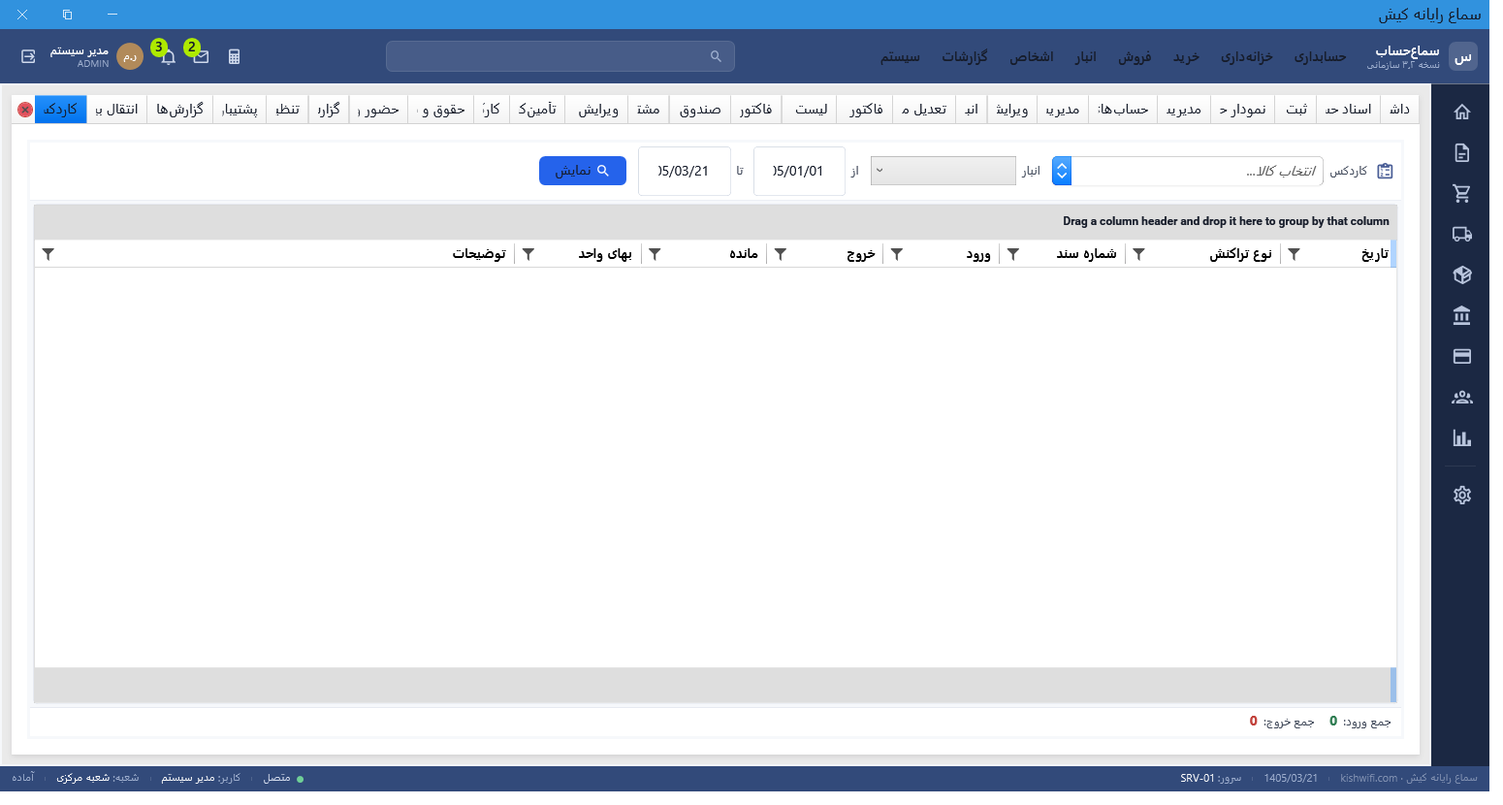
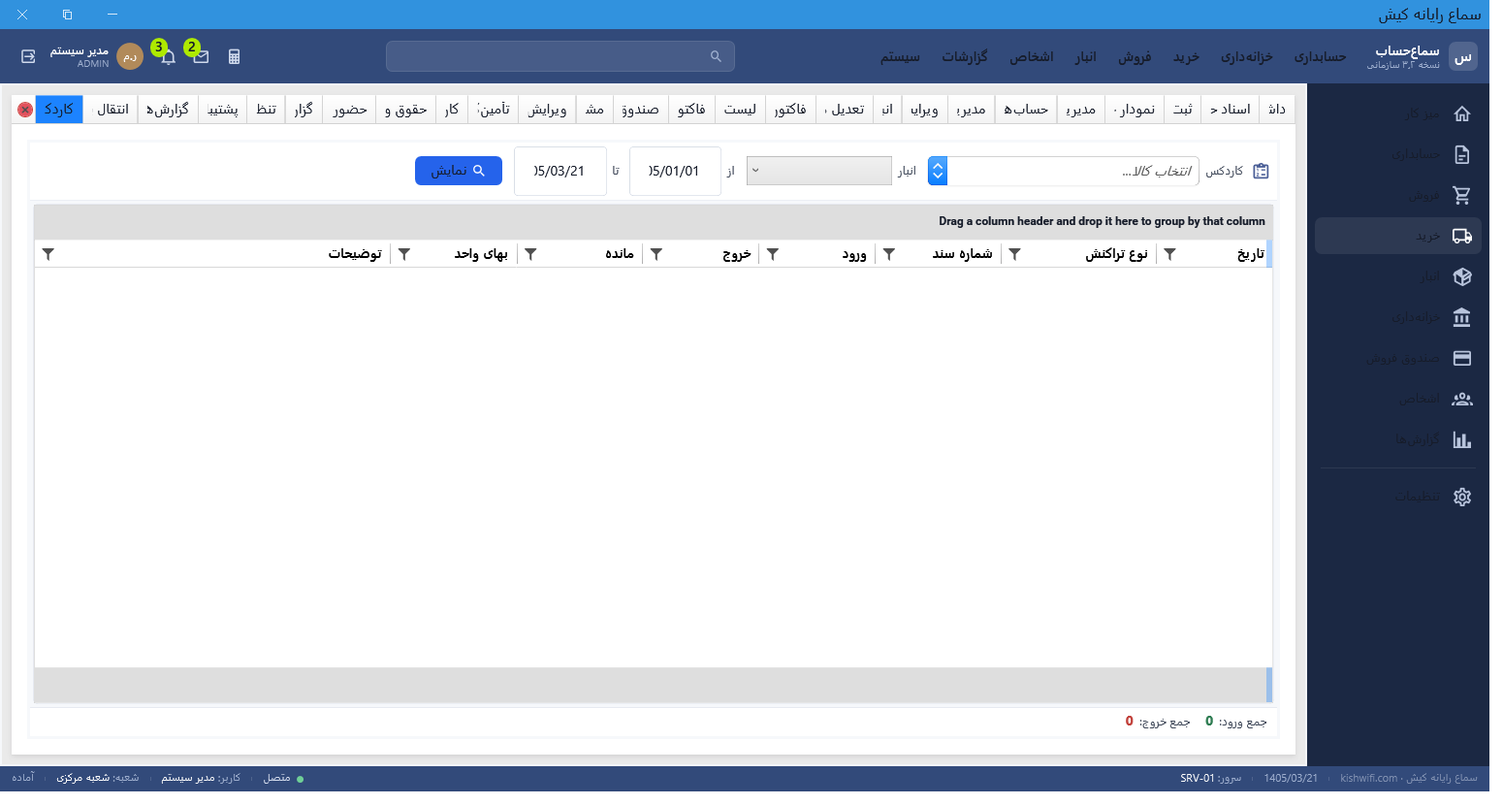
refactor(ui): بازطراحی چگالیمحور اسناد حسابداری (master-detail بهرهور)
تمرکز روی چگالی داده و workflow حسابداری (نه رنگ): پنل پیشنمایش همیشهپر (انتخاب خودکار + جدول بدهکار/بستانکار پرکننده + تراز + اقدامات سریع)، حاشیه/فاصلههای فشرده (≈۴۰٪ فضای بیشتر)، تولبار+فیلتر تکردیفه. پوسته: سایدبار همیشهباز برچسبدار + فهرست بازشوندهی خوانا.

diff --git a/src/SamaHesab.WPF/Views/Accounting/VoucherListView.xaml b/src/SamaHesab.WPF/Views/Accounting/VoucherListView.xaml
@@ -9,19 +9,17 @@
         <conv:NumberFormatConverter x:Key="Num"/>
         <conv:BoolToVisibilityConverter x:Key="BoolVis"/>
 
-        <!-- دکمهی تولبار متن+آیکون -->
+        <!-- دکمهی تولبار فشرده -->
         <Style x:Key="TBtn" TargetType="Button" BasedOn="{StaticResource ErpBtnGhost}">
-            <Setter Property="Height" Value="32"/><Setter Property="Padding" Value="10,0"/><Setter Property="Margin" Value="0,0,2,0"/>
+            <Setter Property="Height" Value="28"/><Setter Property="Padding" Value="9,0"/><Setter Property="Margin" Value="0,0,1,0"/>
             <Setter Property="FontSize" Value="12.5"/>
         </Style>
-        <!-- چیپ فیلتر وضعیت -->
         <Style x:Key="FChip" TargetType="RadioButton">
-            <Setter Property="Cursor" Value="Hand"/>
-            <Setter Property="Margin" Value="0,0,6,0"/>
+            <Setter Property="Cursor" Value="Hand"/><Setter Property="Margin" Value="0,0,5,0"/>
             <Setter Property="Template">
                 <Setter.Value>
                     <ControlTemplate TargetType="RadioButton">
-                        <Border x:Name="b" CornerRadius="999" Background="White" BorderBrush="{StaticResource ErpBorderStrong}" BorderThickness="1" Padding="14,4">
+                        <Border x:Name="b" CornerRadius="999" Background="White" BorderBrush="{StaticResource ErpBorderStrong}" BorderThickness="1" Padding="13,3">
                             <ContentPresenter VerticalAlignment="Center"/>
                         </Border>
                         <ControlTemplate.Triggers>
@@ -35,100 +33,86 @@
                 </Setter.Value>
             </Setter>
         </Style>
+        <!-- KV فشرده -->
+        <Style x:Key="Kv" TargetType="DockPanel"><Setter Property="Margin" Value="0,1"/></Style>
     </UserControl.Resources>
 
-    <Grid Margin="10">
+    <Grid Margin="6">
         <Grid.RowDefinitions>
             <RowDefinition Height="Auto"/>   <!-- تولبار -->
-            <RowDefinition Height="Auto"/>   <!-- نوار فیلتر -->
-            <RowDefinition Height="*"/>      <!-- لیست + پیشنمایش -->
+            <RowDefinition Height="Auto"/>   <!-- فیلتر -->
+            <RowDefinition Height="*"/>      <!-- بدنه (لیست + پیشنمایش) -->
         </Grid.RowDefinitions>
 
-        <!-- ═══ تولبار ═══ -->
-        <Border Grid.Row="0" Background="White" BorderBrush="{StaticResource ErpBorder}" BorderThickness="1" CornerRadius="8" Padding="8,5" Margin="0,0,0,8">
+        <!-- ═══ تولبار فشرده ═══ -->
+        <Border Grid.Row="0" Background="White" BorderBrush="{StaticResource ErpBorder}" BorderThickness="1" CornerRadius="6" Padding="6,3" Margin="0,0,0,5">
             <DockPanel>
-                <Button DockPanel.Dock="Right" Style="{StaticResource ErpBtnPrimary}" Height="32" Padding="12,0" Margin="0,0,6,0" Command="{Binding NewVoucherCommand}">
-                    <TextBlock><Run Text="🧾 سند جدید"/><Run Text="  F2" FontSize="10" Foreground="#CFE0FF"/></TextBlock>
+                <Button DockPanel.Dock="Right" Style="{StaticResource ErpBtnPrimary}" Height="28" Padding="11,0" Margin="0,0,5,0" Command="{Binding NewVoucherCommand}">
+                    <TextBlock><Run Text="🧾 سند جدید"/><Run Text=" F2" FontSize="9.5" Foreground="#CFE0FF"/></TextBlock>
                 </Button>
                 <Button Style="{StaticResource TBtn}" Content="✎ ویرایش" Command="{Binding EditVoucherCommand}"/>
+                <Button Style="{StaticResource TBtn}" Content="✓ قطعی" Command="{Binding PostVoucherCommand}"/>
                 <Button Style="{StaticResource TBtn}" Content="📒 دفتر کل" Command="{Binding LedgerCommand}"/>
                 <Button Style="{StaticResource TBtn}" Content="≣ تراز آزمایشی" Command="{Binding TrialBalanceCommand}"/>
-                <Rectangle Width="1" Fill="{StaticResource ErpBorder}" Margin="5,5"/>
-                <Button Style="{StaticResource TBtn}" Content="⤓ خروجی اکسل" Command="{Binding ExportCommand}"/>
-                <Button Style="{StaticResource TBtn}" Command="{Binding PrintVoucherCommand}"><TextBlock><Run Text="🖨 چاپ"/><Run Text="  F8" FontSize="10" Foreground="{StaticResource ErpTextMuted}"/></TextBlock></Button>
-                <TextBlock DockPanel.Dock="Left" HorizontalAlignment="Left" VerticalAlignment="Center" Foreground="{StaticResource ErpTextMuted}" FontSize="11.5"
+                <Rectangle Width="1" Fill="{StaticResource ErpBorder}" Margin="4,4"/>
+                <Button Style="{StaticResource TBtn}" Content="⤓ اکسل" Command="{Binding ExportCommand}"/>
+                <Button Style="{StaticResource TBtn}" Command="{Binding PrintVoucherCommand}"><TextBlock><Run Text="🖨 چاپ"/><Run Text=" F8" FontSize="9.5" Foreground="{StaticResource ErpTextMuted}"/></TextBlock></Button>
+                <TextBlock DockPanel.Dock="Left" HorizontalAlignment="Left" VerticalAlignment="Center" Foreground="{StaticResource ErpTextMuted}" FontSize="11"
                            Text="{Binding TotalCount, StringFormat='{}{0} سند · دوره ۱۴۰۵'}"/>
             </DockPanel>
         </Border>
 
-        <!-- ═══ نوار فیلتر ═══ -->
-        <Border Grid.Row="1" Background="White" BorderBrush="{StaticResource ErpBorder}" BorderThickness="1" CornerRadius="8" Padding="10,7" Margin="0,0,0,8">
+        <!-- ═══ فیلتر تکردیفه ═══ -->
+        <Border Grid.Row="1" Background="White" BorderBrush="{StaticResource ErpBorder}" BorderThickness="1" CornerRadius="6" Padding="7,4" Margin="0,0,0,5">
             <DockPanel>
-                <TextBox DockPanel.Dock="Right" Style="{StaticResource ErpInput}" Width="240" Margin="0,0,8,0"
-                         Text="{Binding SearchText}" VerticalContentAlignment="Center">
+                <TextBox DockPanel.Dock="Right" Style="{StaticResource ErpInput}" Height="28" Width="220" Margin="0,0,6,0" Text="{Binding SearchText}" VerticalContentAlignment="Center">
                     <TextBox.InputBindings><KeyBinding Key="Return" Command="{Binding SearchCommand}"/></TextBox.InputBindings>
                 </TextBox>
-                <TextBlock DockPanel.Dock="Right" Text="از" VerticalAlignment="Center" Foreground="{StaticResource ErpTextMuted}" FontSize="12" Margin="0,0,4,0"/>
-                <TextBox DockPanel.Dock="Right" Style="{StaticResource ErpInput}" Width="110" Margin="0,0,4,0" Text="{Binding FromDate}" FlowDirection="LeftToRight" TextAlignment="Center"/>
-                <TextBlock DockPanel.Dock="Right" Text="تا" VerticalAlignment="Center" Foreground="{StaticResource ErpTextMuted}" FontSize="12" Margin="0,0,4,0"/>
-                <TextBox DockPanel.Dock="Right" Style="{StaticResource ErpInput}" Width="110" Margin="0,0,8,0" Text="{Binding ToDate}" FlowDirection="LeftToRight" TextAlignment="Center"/>
-                <ComboBox DockPanel.Dock="Right" Width="120" Height="32" Margin="0,0,10,0"
-                          ItemsSource="{Binding StatusOptions}" DisplayMemberPath="Name" SelectedValuePath="Id" SelectedValue="{Binding SelectedStatus}"/>
+                <TextBlock DockPanel.Dock="Right" Text="از" VerticalAlignment="Center" Foreground="{StaticResource ErpTextMuted}" FontSize="12" Margin="0,0,3,0"/>
+                <TextBox DockPanel.Dock="Right" Style="{StaticResource ErpInput}" Height="28" Width="100" Margin="0,0,4,0" Text="{Binding FromDate}" FlowDirection="LeftToRight" TextAlignment="Center"/>
+                <TextBlock DockPanel.Dock="Right" Text="تا" VerticalAlignment="Center" Foreground="{StaticResource ErpTextMuted}" FontSize="12" Margin="0,0,3,0"/>
+                <TextBox DockPanel.Dock="Right" Style="{StaticResource ErpInput}" Height="28" Width="100" Margin="0,0,8,0" Text="{Binding ToDate}" FlowDirection="LeftToRight" TextAlignment="Center"/>
+                <ComboBox DockPanel.Dock="Right" Width="110" Height="28" Margin="0,0,8,0" ItemsSource="{Binding StatusOptions}" DisplayMemberPath="Name" SelectedValuePath="Id" SelectedValue="{Binding SelectedStatus}"/>
                 <RadioButton Style="{StaticResource FChip}" Content="همه" IsChecked="True" GroupName="st"/>
                 <RadioButton Style="{StaticResource FChip}" Content="قطعی" GroupName="st"/>
                 <RadioButton Style="{StaticResource FChip}" Content="پیشنویس" GroupName="st"/>
-                <Button Style="{StaticResource ErpBtnSecondary}" Height="32" Content="🔍 جستجو" Command="{Binding SearchCommand}" Margin="6,0,0,0"/>
-                <TextBlock DockPanel.Dock="Left" HorizontalAlignment="Left" VerticalAlignment="Center" Foreground="{StaticResource ErpTextMuted}" FontSize="11.5"
+                <Button Style="{StaticResource ErpBtnSecondary}" Height="28" Content="🔍 جستجو" Command="{Binding SearchCommand}" Margin="5,0,0,0"/>
+                <TextBlock DockPanel.Dock="Left" HorizontalAlignment="Left" VerticalAlignment="Center" Foreground="{StaticResource ErpTextMuted}" FontSize="11"
                            Text="{Binding TotalCount, StringFormat='{}{0} نتیجه'}"/>
             </DockPanel>
         </Border>
 
-        <!-- ═══ لیست + پیشنمایش ═══ -->
+        <!-- ═══ بدنه: لیست (مرکز) + پیشنمایش master-detail (چپ) ═══ -->
         <Grid Grid.Row="2">
             <Grid.ColumnDefinitions>
                 <ColumnDefinition Width="*"/>
-                <ColumnDefinition Width="10"/>
-                <ColumnDefinition Width="320"/>
+                <ColumnDefinition Width="6"/>
+                <ColumnDefinition Width="290"/>
             </Grid.ColumnDefinitions>
 
-            <!-- لیست اسناد -->
+            <!-- لیست اسناد با چگالی بالا -->
             <Border Grid.Column="0" Style="{StaticResource ErpGbox}">
                 <DockPanel>
-                    <!-- نوار جمع پایین -->
-                    <Border DockPanel.Dock="Bottom" Background="{StaticResource ErpGray100}" BorderBrush="{StaticResource ErpBorderStrong}" BorderThickness="0,1,0,0" Padding="0,7">
+                    <Border DockPanel.Dock="Bottom" Background="{StaticResource ErpGray100}" BorderBrush="{StaticResource ErpBorderStrong}" BorderThickness="0,1,0,0" Padding="0,4">
                         <DockPanel Margin="9,0">
                             <TextBlock Text="{Binding TotalCount, StringFormat='جمع اسناد فیلترشده — {0} سند'}" FontWeight="Bold" FontSize="12" Foreground="{StaticResource ErpTextStrong}"/>
                             <TextBlock DockPanel.Dock="Left" Text="{Binding TotalDebit, Converter={StaticResource Num}}" FontWeight="Bold" FontSize="12.5" Foreground="{StaticResource ErpTextStrong}" FlowDirection="LeftToRight"/>
                         </DockPanel>
                     </Border>
-
-                    <DataGrid ItemsSource="{Binding Vouchers}" SelectedItem="{Binding SelectedVoucher}"
-                              Style="{StaticResource ErpDataGrid}" IsReadOnly="True">
+                    <DataGrid ItemsSource="{Binding Vouchers}" SelectedItem="{Binding SelectedVoucher}" Style="{StaticResource ErpDataGrid}" IsReadOnly="True">
                         <DataGrid.Columns>
-                            <DataGridTextColumn Header="شماره" Binding="{Binding VoucherNumber}" Width="80">
+                            <DataGridTextColumn Header="شماره" Binding="{Binding VoucherNumber}" Width="75">
                                 <DataGridTextColumn.ElementStyle><Style TargetType="TextBlock"><Setter Property="FontWeight" Value="SemiBold"/><Setter Property="Margin" Value="8,0"/></Style></DataGridTextColumn.ElementStyle>
                             </DataGridTextColumn>
-                            <DataGridTextColumn Header="تاریخ" Binding="{Binding VoucherDate}" Width="95">
+                            <DataGridTextColumn Header="تاریخ" Binding="{Binding VoucherDate}" Width="88">
                                 <DataGridTextColumn.ElementStyle><Style TargetType="TextBlock"><Setter Property="Foreground" Value="{StaticResource ErpTextMuted}"/><Setter Property="Margin" Value="8,0"/></Style></DataGridTextColumn.ElementStyle>
                             </DataGridTextColumn>
-                            <!-- نوع: بج رنگی -->
-                            <DataGridTemplateColumn Header="نوع" Width="84">
+                            <DataGridTemplateColumn Header="نوع" Width="80">
                                 <DataGridTemplateColumn.CellTemplate>
                                     <DataTemplate>
-                                        <Border CornerRadius="4" Padding="8,1" HorizontalAlignment="Center" VerticalAlignment="Center">
-                                            <Border.Style>
-                                                <Style TargetType="Border">
-                                                    <Setter Property="Background" Value="{StaticResource ErpBlue50}"/>
-                                                    <Style.Triggers><DataTrigger Binding="{Binding VoucherTypeName}" Value="عمومی"><Setter Property="Background" Value="{StaticResource ErpGray150}"/></DataTrigger></Style.Triggers>
-                                                </Style>
-                                            </Border.Style>
-                                            <TextBlock Text="{Binding VoucherTypeName}" FontSize="11" FontWeight="SemiBold">
-                                                <TextBlock.Style>
-                                                    <Style TargetType="TextBlock"><Setter Property="Foreground" Value="{StaticResource ErpBlue700}"/>
-                                                        <Style.Triggers><DataTrigger Binding="{Binding VoucherTypeName}" Value="عمومی"><Setter Property="Foreground" Value="{StaticResource ErpTextMuted}"/></DataTrigger></Style.Triggers>
-                                                    </Style>
-                                                </TextBlock.Style>
-                                            </TextBlock>
+                                        <Border CornerRadius="4" Padding="7,0" HorizontalAlignment="Center" VerticalAlignment="Center">
+                                            <Border.Style><Style TargetType="Border"><Setter Property="Background" Value="{StaticResource ErpBlue50}"/><Style.Triggers><DataTrigger Binding="{Binding VoucherTypeName}" Value="عمومی"><Setter Property="Background" Value="{StaticResource ErpGray150}"/></DataTrigger></Style.Triggers></Style></Border.Style>
+                                            <TextBlock Text="{Binding VoucherTypeName}" FontSize="10.5" FontWeight="SemiBold"><TextBlock.Style><Style TargetType="TextBlock"><Setter Property="Foreground" Value="{StaticResource ErpBlue700}"/><Style.Triggers><DataTrigger Binding="{Binding VoucherTypeName}" Value="عمومی"><Setter Property="Foreground" Value="{StaticResource ErpTextMuted}"/></DataTrigger></Style.Triggers></Style></TextBlock.Style></TextBlock>
                                         </Border>
                                     </DataTemplate>
                                 </DataGridTemplateColumn.CellTemplate>
@@ -136,27 +120,15 @@
                             <DataGridTextColumn Header="شرح سند" Binding="{Binding Description}" Width="*">
                                 <DataGridTextColumn.ElementStyle><Style TargetType="TextBlock"><Setter Property="Foreground" Value="{StaticResource ErpTextStrong}"/><Setter Property="Margin" Value="8,0"/><Setter Property="TextTrimming" Value="CharacterEllipsis"/></Style></DataGridTextColumn.ElementStyle>
                             </DataGridTextColumn>
-                            <DataGridTextColumn Header="مبلغ (ریال)" Binding="{Binding TotalDebit, Converter={StaticResource Num}}" Width="130">
+                            <DataGridTextColumn Header="مبلغ (ریال)" Binding="{Binding TotalDebit, Converter={StaticResource Num}}" Width="120">
                                 <DataGridTextColumn.ElementStyle><Style TargetType="TextBlock"><Setter Property="FlowDirection" Value="LeftToRight"/><Setter Property="TextAlignment" Value="Left"/><Setter Property="Margin" Value="8,0"/><Setter Property="FontWeight" Value="SemiBold"/></Style></DataGridTextColumn.ElementStyle>
                             </DataGridTextColumn>
-                            <!-- وضعیت: بج رنگی -->
-                            <DataGridTemplateColumn Header="وضعیت" Width="90">
+                            <DataGridTemplateColumn Header="وضعیت" Width="86">
                                 <DataGridTemplateColumn.CellTemplate>
                                     <DataTemplate>
-                                        <Border CornerRadius="4" Padding="8,1" HorizontalAlignment="Center" VerticalAlignment="Center">
-                                            <Border.Style>
-                                                <Style TargetType="Border">
-                                                    <Setter Property="Background" Value="{StaticResource ErpSuccess50}"/>
-                                                    <Style.Triggers><DataTrigger Binding="{Binding StatusName}" Value="پیشنویس"><Setter Property="Background" Value="{StaticResource ErpWarning50}"/></DataTrigger></Style.Triggers>
-                                                </Style>
-                                            </Border.Style>
-                                            <TextBlock Text="{Binding StatusName}" FontSize="11" FontWeight="SemiBold">
-                                                <TextBlock.Style>
-                                                    <Style TargetType="TextBlock"><Setter Property="Foreground" Value="{StaticResource ErpSuccess700}"/>
-                                                        <Style.Triggers><DataTrigger Binding="{Binding StatusName}" Value="پیشنویس"><Setter Property="Foreground" Value="{StaticResource ErpWarning700}"/></DataTrigger></Style.Triggers>
-                                                    </Style>
-                                                </TextBlock.Style>
-                                            </TextBlock>
+                                        <Border CornerRadius="4" Padding="7,0" HorizontalAlignment="Center" VerticalAlignment="Center">
+                                            <Border.Style><Style TargetType="Border"><Setter Property="Background" Value="{StaticResource ErpSuccess50}"/><Style.Triggers><DataTrigger Binding="{Binding StatusName}" Value="پیشنویس"><Setter Property="Background" Value="{StaticResource ErpWarning50}"/></DataTrigger></Style.Triggers></Style></Border.Style>
+                                            <TextBlock Text="{Binding StatusName}" FontSize="10.5" FontWeight="SemiBold"><TextBlock.Style><Style TargetType="TextBlock"><Setter Property="Foreground" Value="{StaticResource ErpSuccess700}"/><Style.Triggers><DataTrigger Binding="{Binding StatusName}" Value="پیشنویس"><Setter Property="Foreground" Value="{StaticResource ErpWarning700}"/></DataTrigger></Style.Triggers></Style></TextBlock.Style></TextBlock>
                                         </Border>
                                     </DataTemplate>
                                 </DataGridTemplateColumn.CellTemplate>
@@ -166,58 +138,76 @@
                 </DockPanel>
             </Border>
 
-            <!-- پنل پیشنمایش سند -->
-            <StackPanel Grid.Column="2">
-                <Border Style="{StaticResource ErpGbox}">
+            <!-- پنل پیشنمایش (master-detail) — همیشه پر -->
+            <Grid Grid.Column="2">
+                <Grid.RowDefinitions>
+                    <RowDefinition Height="Auto"/>   <!-- خلاصه -->
+                    <RowDefinition Height="*"/>       <!-- جدول حساب (پرکننده) -->
+                    <RowDefinition Height="Auto"/>   <!-- تراز -->
+                    <RowDefinition Height="Auto"/>   <!-- اقدامات سریع -->
+                </Grid.RowDefinitions>
+
+                <!-- خلاصهی سند -->
+                <Border Grid.Row="0" Style="{StaticResource ErpGbox}">
                     <StackPanel>
-                        <Border Style="{StaticResource ErpGboxHeader}">
+                        <Border Style="{StaticResource ErpGboxHeader}" Height="30">
                             <DockPanel>
-                                <TextBlock Style="{StaticResource ErpGboxTitle}" Text="{Binding SelectedVoucher.VoucherNumber, StringFormat='پیشنمایش سند {0}', FallbackValue='پیشنمایش سند'}"/>
-                                <Border DockPanel.Dock="Left" CornerRadius="4" Padding="7,1" VerticalAlignment="Center"
-                                        Visibility="{Binding SelectedVoucher, Converter={StaticResource BoolVis}}">
-                                    <Border.Style>
-                                        <Style TargetType="Border"><Setter Property="Background" Value="{StaticResource ErpSuccess50}"/>
-                                            <Style.Triggers><DataTrigger Binding="{Binding SelectedVoucher.StatusName}" Value="پیشنویس"><Setter Property="Background" Value="{StaticResource ErpWarning50}"/></DataTrigger></Style.Triggers>
-                                        </Style>
-                                    </Border.Style>
-                                    <TextBlock Text="{Binding SelectedVoucher.StatusName}" FontSize="10.5" FontWeight="SemiBold" Foreground="{StaticResource ErpWarning700}"/>
+                                <TextBlock Style="{StaticResource ErpGboxTitle}" FontSize="11.5" Text="{Binding SelectedVoucher.VoucherNumber, StringFormat='پیشنمایش سند {0}', FallbackValue='پیشنمایش سند'}"/>
+                                <Border DockPanel.Dock="Left" CornerRadius="4" Padding="6,0" VerticalAlignment="Center" Visibility="{Binding SelectedVoucher, Converter={StaticResource BoolVis}}">
+                                    <Border.Style><Style TargetType="Border"><Setter Property="Background" Value="{StaticResource ErpSuccess50}"/><Style.Triggers><DataTrigger Binding="{Binding SelectedVoucher.StatusName}" Value="پیشنویس"><Setter Property="Background" Value="{StaticResource ErpWarning50}"/></DataTrigger></Style.Triggers></Style></Border.Style>
+                                    <TextBlock Text="{Binding SelectedVoucher.StatusName}" FontSize="10" FontWeight="SemiBold" Foreground="{StaticResource ErpWarning700}"/>
                                 </Border>
                             </DockPanel>
                         </Border>
-                        <StackPanel Margin="12,10">
-                            <DockPanel Margin="0,3"><TextBlock Text="تاریخ" Foreground="{StaticResource ErpTextMuted}" FontSize="12"/><TextBlock DockPanel.Dock="Left" Text="{Binding SelectedVoucher.VoucherDate}" FontWeight="Bold" FontSize="12"/></DockPanel>
-                            <DockPanel Margin="0,3"><TextBlock Text="نوع" Foreground="{StaticResource ErpTextMuted}" FontSize="12"/><TextBlock DockPanel.Dock="Left" Text="{Binding SelectedVoucher.VoucherTypeName}" FontWeight="Bold" FontSize="12"/></DockPanel>
-                            <DockPanel Margin="0,3"><TextBlock Text="مرکز هزینه" Foreground="{StaticResource ErpTextMuted}" FontSize="12"/><TextBlock DockPanel.Dock="Left" Text="شعبه مرکزی" FontWeight="Bold" FontSize="12"/></DockPanel>
-                            <TextBlock Text="{Binding SelectedVoucher.Description}" Foreground="{StaticResource ErpTextMuted}" FontSize="11.5" TextWrapping="Wrap" Margin="0,4,0,0"/>
+                        <StackPanel Margin="10,6">
+                            <DockPanel Style="{StaticResource Kv}"><TextBlock Text="تاریخ" Foreground="{StaticResource ErpTextMuted}" FontSize="11.5"/><TextBlock DockPanel.Dock="Left" Text="{Binding SelectedVoucher.VoucherDate}" FontWeight="Bold" FontSize="11.5"/></DockPanel>
+                            <DockPanel Style="{StaticResource Kv}"><TextBlock Text="نوع" Foreground="{StaticResource ErpTextMuted}" FontSize="11.5"/><TextBlock DockPanel.Dock="Left" Text="{Binding SelectedVoucher.VoucherTypeName}" FontWeight="Bold" FontSize="11.5"/></DockPanel>
+                            <DockPanel Style="{StaticResource Kv}"><TextBlock Text="مرکز هزینه" Foreground="{StaticResource ErpTextMuted}" FontSize="11.5"/><TextBlock DockPanel.Dock="Left" Text="شعبه مرکزی" FontWeight="Bold" FontSize="11.5"/></DockPanel>
+                            <TextBlock Text="{Binding SelectedVoucher.Description}" Foreground="{StaticResource ErpTextMuted}" FontSize="11" TextWrapping="Wrap" Margin="0,3,0,0"/>
                         </StackPanel>
                     </StackPanel>
                 </Border>
 
-                <!-- ردیفهای حساب -->
-                <Border Style="{StaticResource ErpGbox}" Margin="0,10,0,0">
-                    <DataGrid ItemsSource="{Binding PreviewLines}" Style="{StaticResource ErpDataGrid}" IsReadOnly="True" FontSize="11.5" HeadersVisibility="Column" MaxHeight="220">
+                <!-- جدول حساب/بدهکار/بستانکار — پرکننده -->
+                <Border Grid.Row="1" Style="{StaticResource ErpGbox}" Margin="0,6,0,0">
+                    <DataGrid ItemsSource="{Binding PreviewLines}" Style="{StaticResource ErpDataGrid}" IsReadOnly="True" FontSize="11.5" HeadersVisibility="Column">
                         <DataGrid.Columns>
                             <DataGridTextColumn Header="حساب" Binding="{Binding Account}" Width="*">
-                                <DataGridTextColumn.ElementStyle><Style TargetType="TextBlock"><Setter Property="Margin" Value="7,0"/></Style></DataGridTextColumn.ElementStyle>
+                                <DataGridTextColumn.ElementStyle><Style TargetType="TextBlock"><Setter Property="Margin" Value="7,0"/><Setter Property="TextTrimming" Value="CharacterEllipsis"/></Style></DataGridTextColumn.ElementStyle>
                             </DataGridTextColumn>
-                            <DataGridTextColumn Header="بدهکار" Binding="{Binding Debit, Converter={StaticResource Num}}" Width="95">
+                            <DataGridTextColumn Header="بدهکار" Binding="{Binding Debit, Converter={StaticResource Num}}" Width="88">
                                 <DataGridTextColumn.ElementStyle><Style TargetType="TextBlock"><Setter Property="FlowDirection" Value="LeftToRight"/><Setter Property="TextAlignment" Value="Left"/><Setter Property="Margin" Value="6,0"/></Style></DataGridTextColumn.ElementStyle>
                             </DataGridTextColumn>
-                            <DataGridTextColumn Header="بستانکار" Binding="{Binding Credit, Converter={StaticResource Num}}" Width="95">
+                            <DataGridTextColumn Header="بستانکار" Binding="{Binding Credit, Converter={StaticResource Num}}" Width="88">
                                 <DataGridTextColumn.ElementStyle><Style TargetType="TextBlock"><Setter Property="FlowDirection" Value="LeftToRight"/><Setter Property="TextAlignment" Value="Left"/><Setter Property="Margin" Value="6,0"/></Style></DataGridTextColumn.ElementStyle>
                             </DataGridTextColumn>
                         </DataGrid.Columns>
                     </DataGrid>
                 </Border>
 
-                <!-- تراز -->
-                <Border Style="{StaticResource ErpSumBarOk}" Margin="0,10,0,0" HorizontalAlignment="Stretch"
-                        Visibility="{Binding PreviewBalanced, Converter={StaticResource BoolVis}}">
-                    <TextBlock Text="✓ تراز" FontWeight="Bold" Foreground="{StaticResource ErpSuccess700}" HorizontalAlignment="Center"/>
+                <!-- جمع/تراز -->
+                <Border Grid.Row="2" Margin="0,6,0,0" CornerRadius="6" Padding="9,5"
+                        Background="{StaticResource ErpSuccess50}" BorderBrush="#BFDDC9" BorderThickness="1">
+                    <DockPanel>
+                        <TextBlock Text="✓ تراز" FontWeight="Bold" FontSize="12" Foreground="{StaticResource ErpSuccess700}"
+                                   Visibility="{Binding PreviewBalanced, Converter={StaticResource BoolVis}}"/>
+                        <StackPanel DockPanel.Dock="Left" Orientation="Horizontal">
+                            <TextBlock Text="بد: " FontSize="11" Foreground="{StaticResource ErpTextMuted}"/>
+                            <TextBlock Text="{Binding PreviewDebit, Converter={StaticResource Num}}" FontSize="11.5" FontWeight="Bold" FlowDirection="LeftToRight" Foreground="{StaticResource ErpTextStrong}"/>
+                            <TextBlock Text="  بس: " FontSize="11" Foreground="{StaticResource ErpTextMuted}"/>
+                            <TextBlock Text="{Binding PreviewCredit, Converter={StaticResource Num}}" FontSize="11.5" FontWeight="Bold" FlowDirection="LeftToRight" Foreground="{StaticResource ErpTextStrong}"/>
+                        </StackPanel>
+                    </DockPanel>
                 </Border>
 
-                <Button Content="باز کردن سند کامل ↗" Style="{StaticResource ErpBtnPrimary}" Height="38" Margin="0,10,0,0" Command="{Binding EditVoucherCommand}"/>
-            </StackPanel>
+                <!-- اقدامات سریع -->
+                <Grid Grid.Row="3" Margin="0,6,0,0">
+                    <Grid.ColumnDefinitions><ColumnDefinition Width="*"/><ColumnDefinition Width="5"/><ColumnDefinition Width="Auto"/><ColumnDefinition Width="5"/><ColumnDefinition Width="Auto"/></Grid.ColumnDefinitions>
+                    <Button Grid.Column="0" Content="باز کردن سند کامل ↗" Style="{StaticResource ErpBtnPrimary}" Height="32" Command="{Binding EditVoucherCommand}"/>
+                    <Button Grid.Column="2" Content="✓ قطعی" Style="{StaticResource ErpBtnSecondary}" Height="32" Padding="12,0" Command="{Binding PostVoucherCommand}"/>
+                    <Button Grid.Column="4" Content="🖨" Style="{StaticResource ErpBtnSecondary}" Height="32" Width="38" Command="{Binding PrintVoucherCommand}"/>
+                </Grid>
+            </Grid>
         </Grid>
     </Grid>
 </UserControl>

diff --git a/src/SamaHesab.WPF/Views/Shell/MainWindow.xaml b/src/SamaHesab.WPF/Views/Shell/MainWindow.xaml
@@ -18,6 +18,14 @@
     <mah:MetroWindow.Resources>
         <conv:NavActiveToVisibilityConverter x:Key="NavActive"/>
 
+        <!-- آیتمهای فهرست بازشوندهی منوی بالا: متن تیره روی پسزمینهی روشن (خوانا) -->
+        <Style TargetType="MenuItem">
+            <Setter Property="FontFamily" Value="{StaticResource VazirFont}"/>
+            <Setter Property="FontSize" Value="13"/>
+            <Setter Property="Foreground" Value="#1F2937"/>
+            <Setter Property="Padding" Value="10,5"/>
+        </Style>
+
         <!-- دکمهی منوی تاپبار (سفید روی آبی) -->
         <Style x:Key="TopMenuBtn" TargetType="Button">
             <Setter Property="Background" Value="Transparent"/>
@@ -254,10 +262,10 @@
             </Grid>
         </Border>
 
-        <!-- ═══ سایدبار (راست، ۶۰→۲۲۰ هاور) + RadDocking (MDI) ═══ -->
+        <!-- ═══ سایدبار (راست، باز و برچسبدار طبق طرح) + RadDocking (MDI) ═══ -->
         <Grid Grid.Row="1">
             <Grid.ColumnDefinitions>
-                <ColumnDefinition Width="Auto"/>   <!-- سایدبار (راست در RTL) -->
+                <ColumnDefinition Width="188"/>   <!-- سایدبار (راست در RTL) -->
                 <ColumnDefinition Width="*"/>      <!-- محتوا -->
             </Grid.ColumnDefinitions>
 
@@ -270,17 +278,9 @@
                 </telerik:RadDocking.DocumentHost>
             </telerik:RadDocking>
 
-            <!-- سایدبار آیکون+لیبلِ هاوری -->
-            <Border Grid.Column="0" Background="{StaticResource ErpBlue900}" ClipToBounds="True" Width="60">
-                <Border.Style>
-                    <Style TargetType="Border">
-                        <Setter Property="Width" Value="60"/>
-                        <Style.Triggers>
-                            <Trigger Property="IsMouseOver" Value="True"><Setter Property="Width" Value="220"/></Trigger>
-                        </Style.Triggers>
-                    </Style>
-                </Border.Style>
-                <StackPanel VerticalAlignment="Top" Margin="0,8">
+            <!-- سایدبار آیکون+لیبلِ همیشهباز -->
+            <Border Grid.Column="0" Background="{StaticResource ErpBlue900}">
+                <StackPanel VerticalAlignment="Top" Margin="0,10">
                     <Button Style="{StaticResource SideItem}" CommandParameter="Dashboard">
                         <StackPanel Orientation="Horizontal"><materialDesign:PackIcon Kind="HomeOutline" Width="22" Height="22" VerticalAlignment="Center"/><TextBlock Text="میز کار" Margin="12,0,0,0" VerticalAlignment="Center" FontSize="13"/></StackPanel>
                     </Button>

diff --git a/src/SamaHesab.WPF/ViewModels/Accounting/VoucherListViewModel.cs b/src/SamaHesab.WPF/ViewModels/Accounting/VoucherListViewModel.cs
@@ -123,6 +123,8 @@ public partial class VoucherListViewModel : BaseViewModel
             TotalCount = result.TotalCount;
             TotalDebit = Vouchers.Sum(v => v.TotalDebit);
             TotalCredit = Vouchers.Sum(v => v.TotalCredit);
+            // master-detail: همیشه یک سند انتخاب باشد تا پنل پیشنمایش پر بماند
+            SelectedVoucher = Vouchers.FirstOrDefault();
         }, "در حال جستجو...");
     }
 
